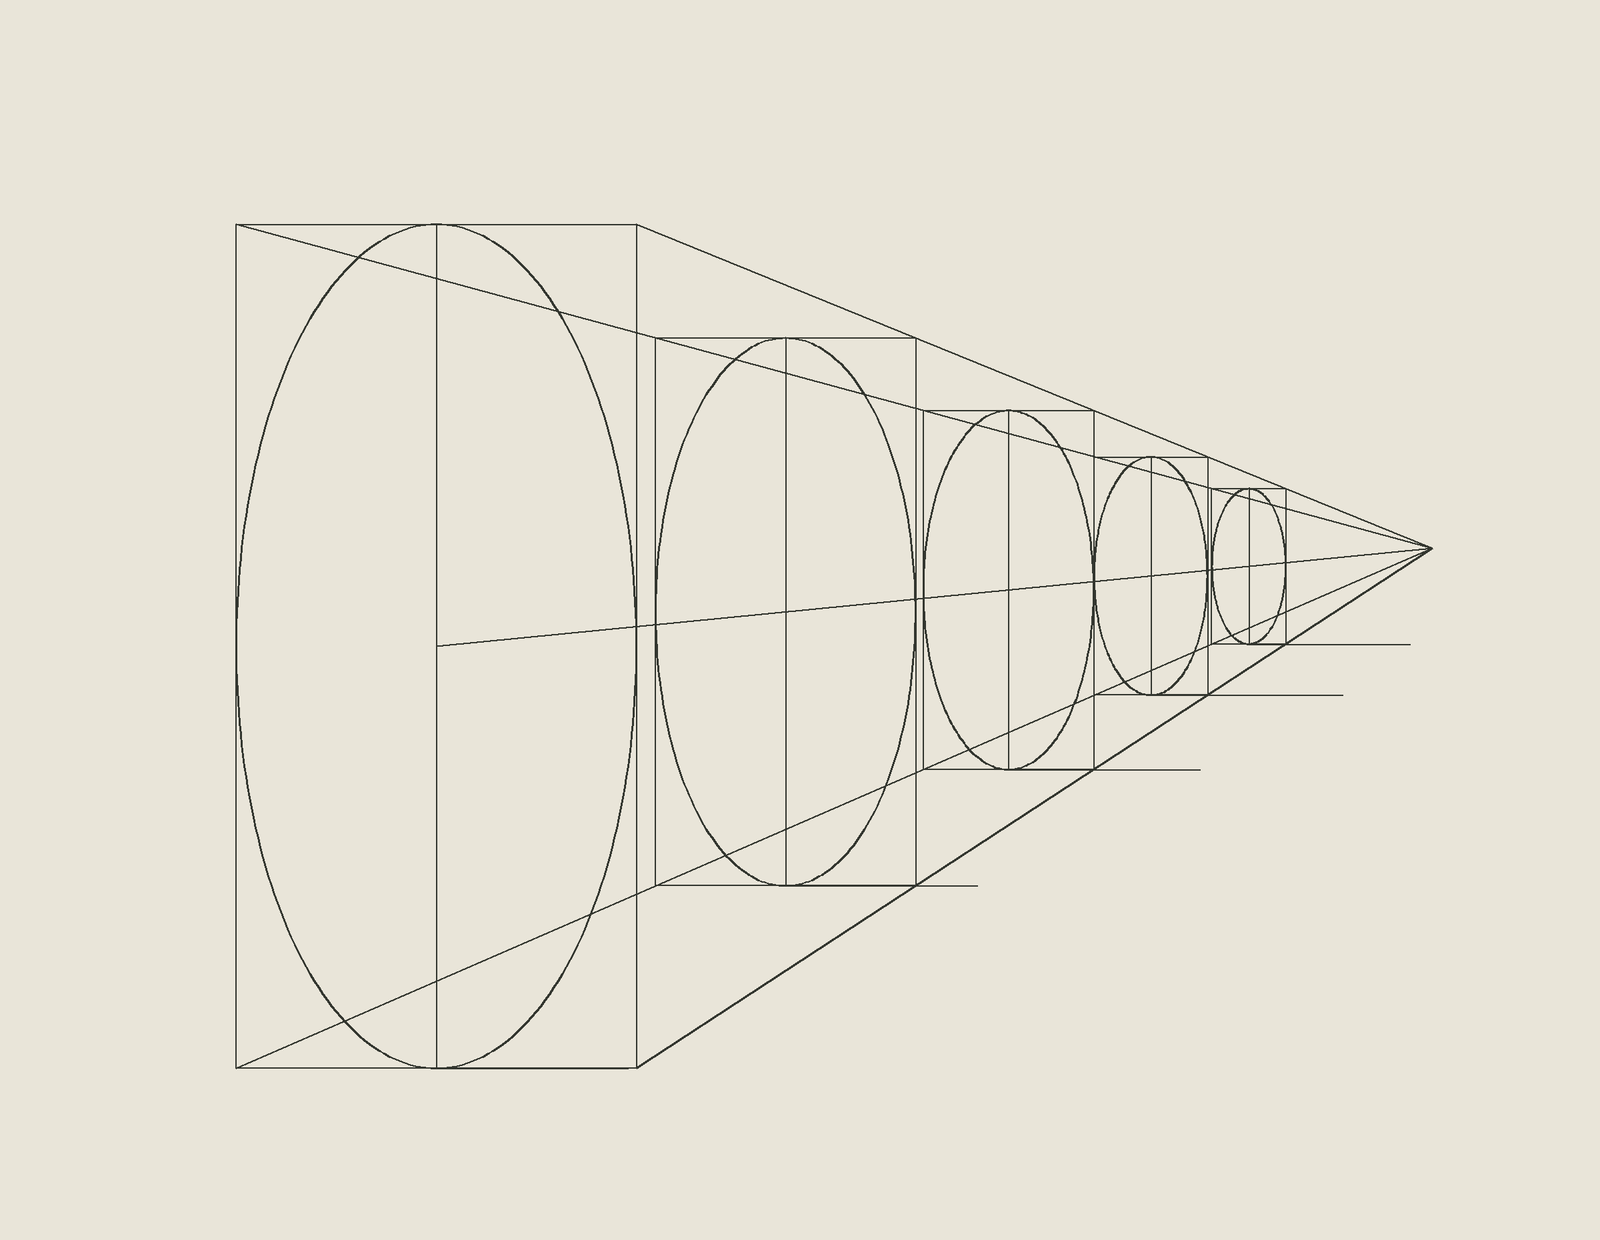
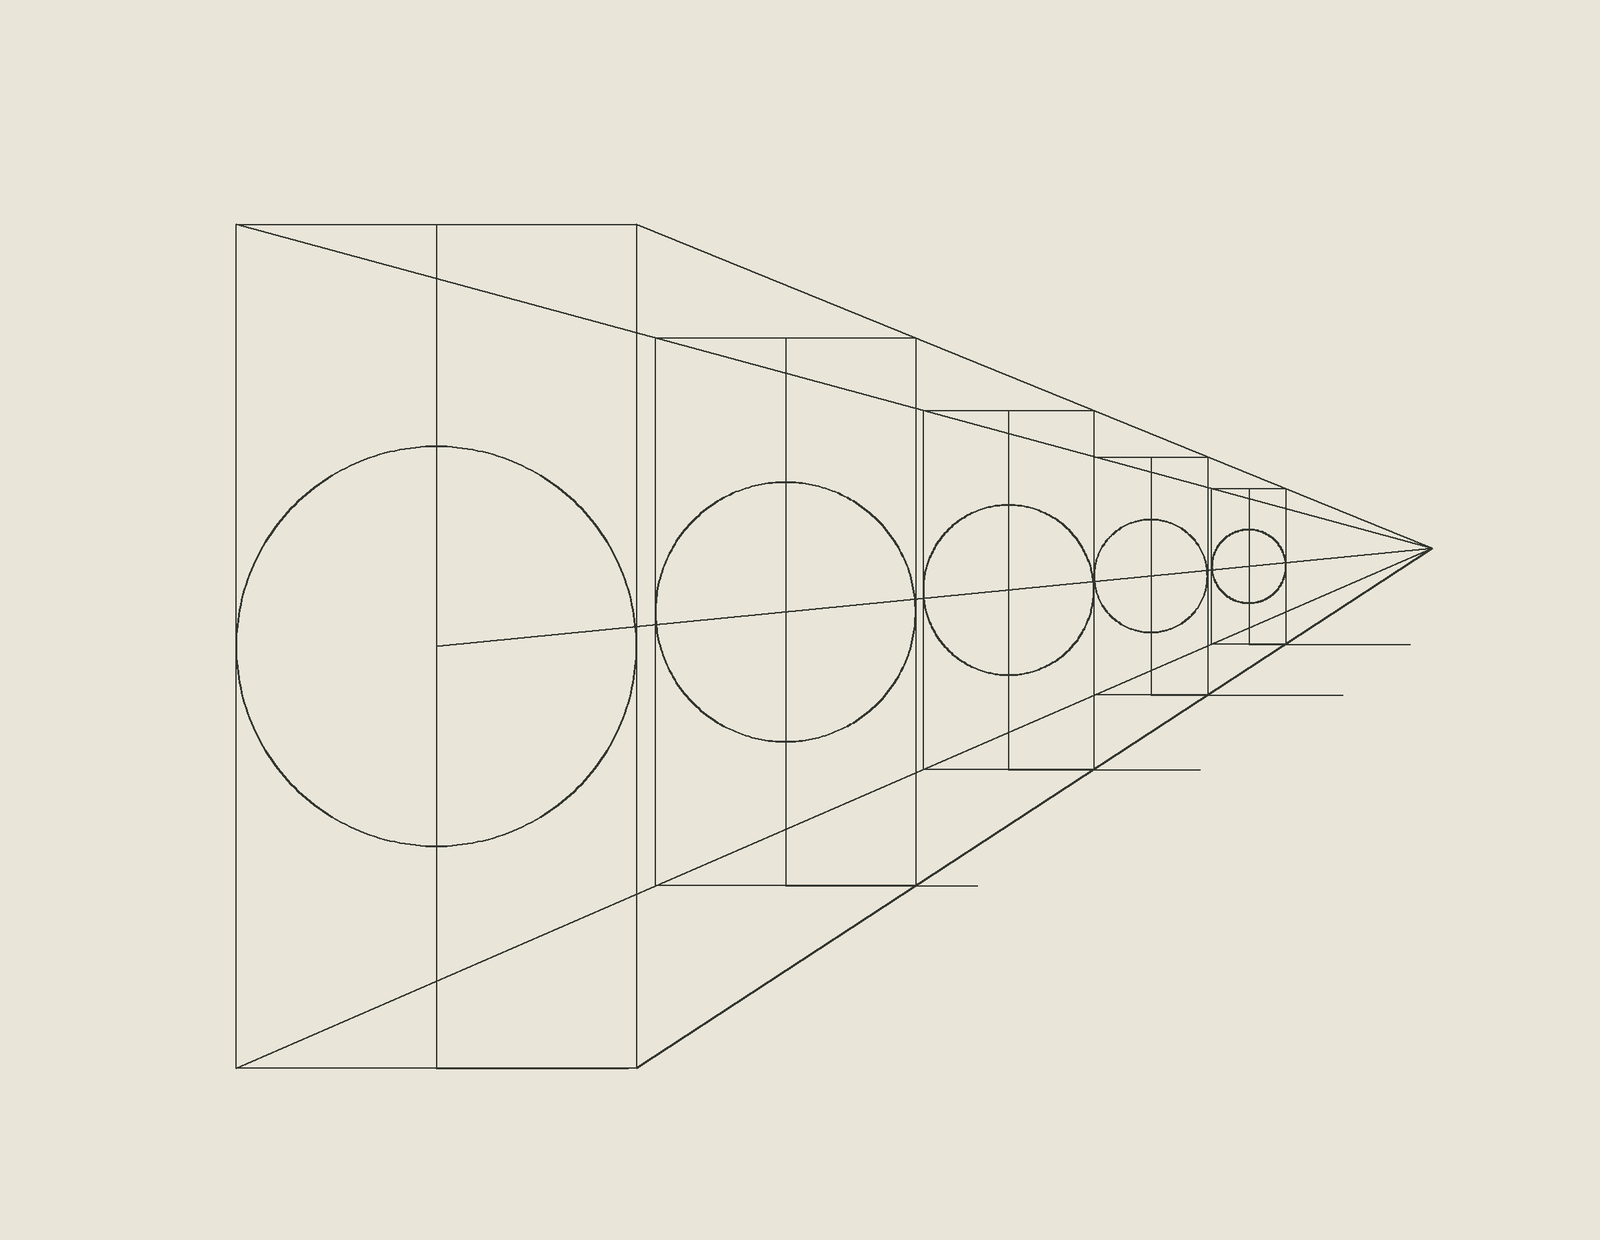
Preserve original section layout and replace ovals with circles

diff --git a/scripts/render_geometric_studies.py b/scripts/render_geometric_studies.py
@@ -100,7 +100,7 @@ def projected_sections():
         drawing.line(project(horizontal, vertical, 0), vanishing_point, 0.9)
     for depth in [0, 1, 2.5, 4.7, 8.2]:
         drawing.path([project(radius_x * math.cos(index * math.tau / 240),
-                              radius_y * math.sin(index * math.tau / 240), depth)
+                              radius_x * math.sin(index * math.tau / 240), depth)
                       for index in range(241)], 1.15)
         corners = [project(x, y, depth) for x, y in [(-radius_x, -radius_y),
                    (radius_x, -radius_y), (radius_x, radius_y), (-radius_x, radius_y),

diff --git a/deliverables/geometric-studies/README.md b/deliverables/geometric-studies/README.md
@@ -1,29 +1,17 @@
 # Geometric cover studies
 
 Design drafts for the Safety–Capability Coupling Program cover.
-No study has been placed in the document. The selected direction is option 02,
-revised below with circular geometry and independent compositions. The references
-set line quality and visual restraint, rather than a composition to reproduce.
-
-## Circular revisions
-
-![Circular revisions](circular_studies.png)
-
-| Study | Construction | Vector source |
-|---|---|---|
-| 02A Circular sequence | Five overlapping true circles; adjacent intersections define transverse chords | [SVG](circular_sequence.svg) |
-| 02B Common chord | Five true circles sharing two intersection points | [SVG](common_chord.svg) |
-
-Rebuild these revisions with [the circular drawing source](../../scripts/render_circular_studies.py).
-
-## Initial studies
+No study has been placed in the document. The selected direction is the original
+option 02, with only its ovals changed to true circles. Its boxes, projection lines,
+centers and spacing are unchanged. The alternate circular-sequence and common-chord
+compositions were rejected and removed; do not use them for further development.
 
 ![Comparison](geometric_studies.png)
 
 | Study | Construction | Vector source |
 |---|---|---|
 | 01 Shared lattice | Two planar lattices with a common edge and crossing projection rays | [SVG](shared_lattice.svg) |
-| 02 Projected sections | Parallel elliptical sections under a central projection | [SVG](projected_sections.svg) |
+| 02 Projected sections | Circular sections with the original boxes and projection lines | [SVG](projected_sections.svg) |
 | 03 Intersecting planes | Three coordinate planes in an axonometric projection | [SVG](intersecting_planes.svg) |
 | 04 Ruled surface | The surface z = xy, drawn using its two families of straight lines | [SVG](ruled_surface.svg) |
 
